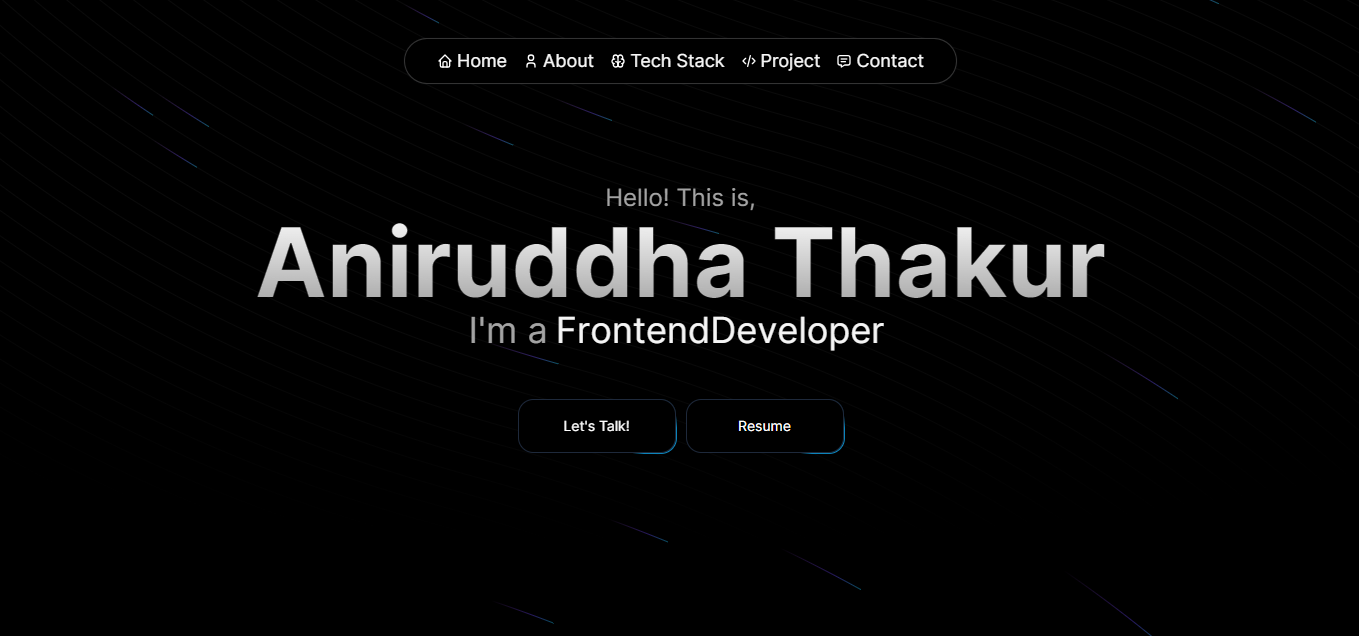
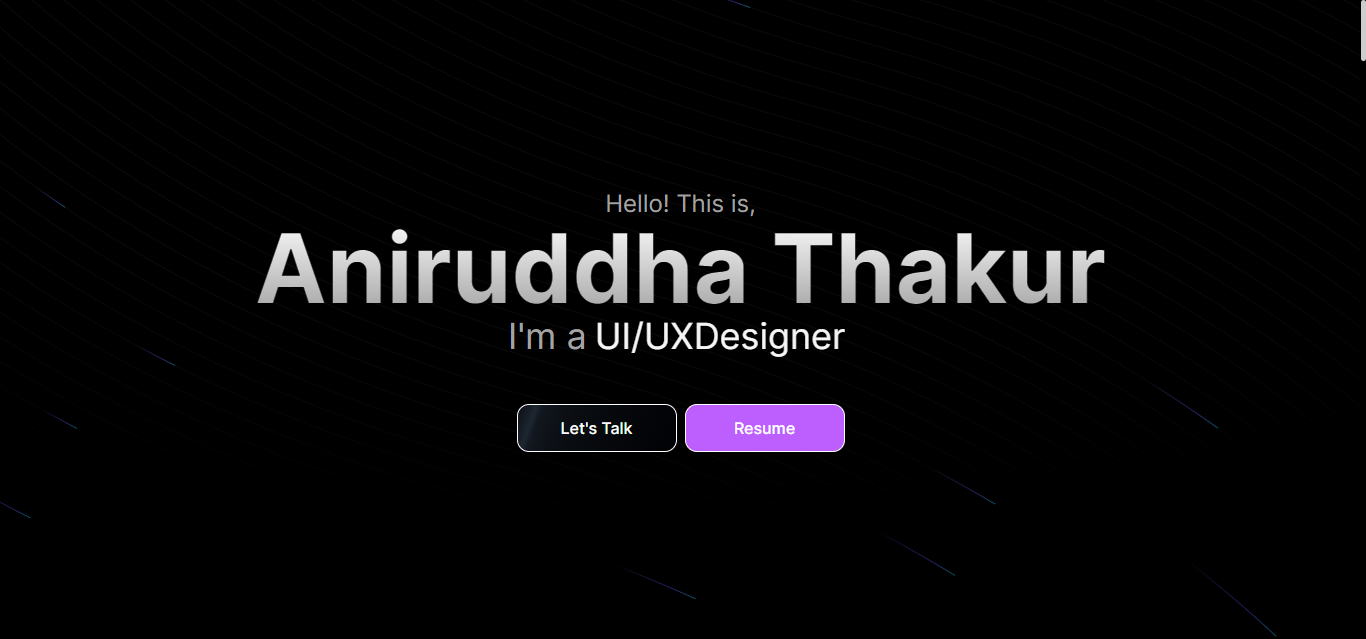
Added New Look Let's talk and Resume button

diff --git a/src/components/HeroSection.tsx b/src/components/HeroSection.tsx
@@ -23,21 +23,15 @@ export default function HeroSection() {
 
             <div className="flex gap-2 z-10">
                 <Link href={'mailto:aniruddhathakur76@gmail.com'} target="_blank" passHref>
-                    <Button
-                        borderRadius="1rem"
-                        className="bg-white dark:bg-black text-black dark:text-white border-neutral-200 dark:border-slate-800"
-                    >
-                        Let&apos;s Talk!
-                    </Button>
+                <button className="inline-flex h-12 w-40 animate-shimmer items-center justify-center rounded-xl border border-white bg-[linear-gradient(110deg,#000103,45%,#1e2631,55%,#000103)] bg-[length:200%_100%] px-6 font-medium text-white transition-all hover:scale-110 focus:outline-none focus:ring-2 focus:ring-slate-400 focus:ring-offset-2 focus:ring-offset-slate-50">
+                    Let's Talk
+                </button>
                 </Link>
 
                 <Link href={'https://drive.google.com/file/d/1qMy1mdC0JKDZk_OniWd51Hu8WVgXDPl0/view?usp=sharing'} target="_blank" passHref>
-                    <Button
-                        borderRadius="1rem"
-                        className="bg-white dark:bg-black text-black dark:text-white border-neutral-200 dark:border-slate-800"
-                    >
+                    <button className="inline-flex h-12 w-40 resume-btn items-center justify-center rounded-xl border border-white px-6 font-medium text-white transition-all hover:scale-110">
                         Resume
-                    </Button>
+                    </button>
                 </Link>
             </div>
             <BackgroundBeams />

diff --git a/src/app/page.tsx b/src/app/page.tsx
@@ -4,6 +4,7 @@ import TechStack from "@/components/TechStack";
 import ProjectSection from "@/components/ProjectSection";
 import Contact from "@/components/Contact";
 import { ShowAllProjectButton } from "@/components/AllProjectButton";
+import Link from "next/link";
 
 export default function Home() {
   return (

diff --git a/src/app/globals.css b/src/app/globals.css
@@ -50,6 +50,14 @@ body {
   }
 }
 
+.resume-btn {
+  background: rgb(189, 95, 255);
+  color: white;
+  box-shadow: rgba(0, 0, 0, 0.15) 0px 4px 8px;
+  cursor: pointer;
+  transition: 0.25s;
+}
+
 .circular-fill{
   box-shadow: 0 0 0 #8000ff inset;
   transition-duration: .3s;
